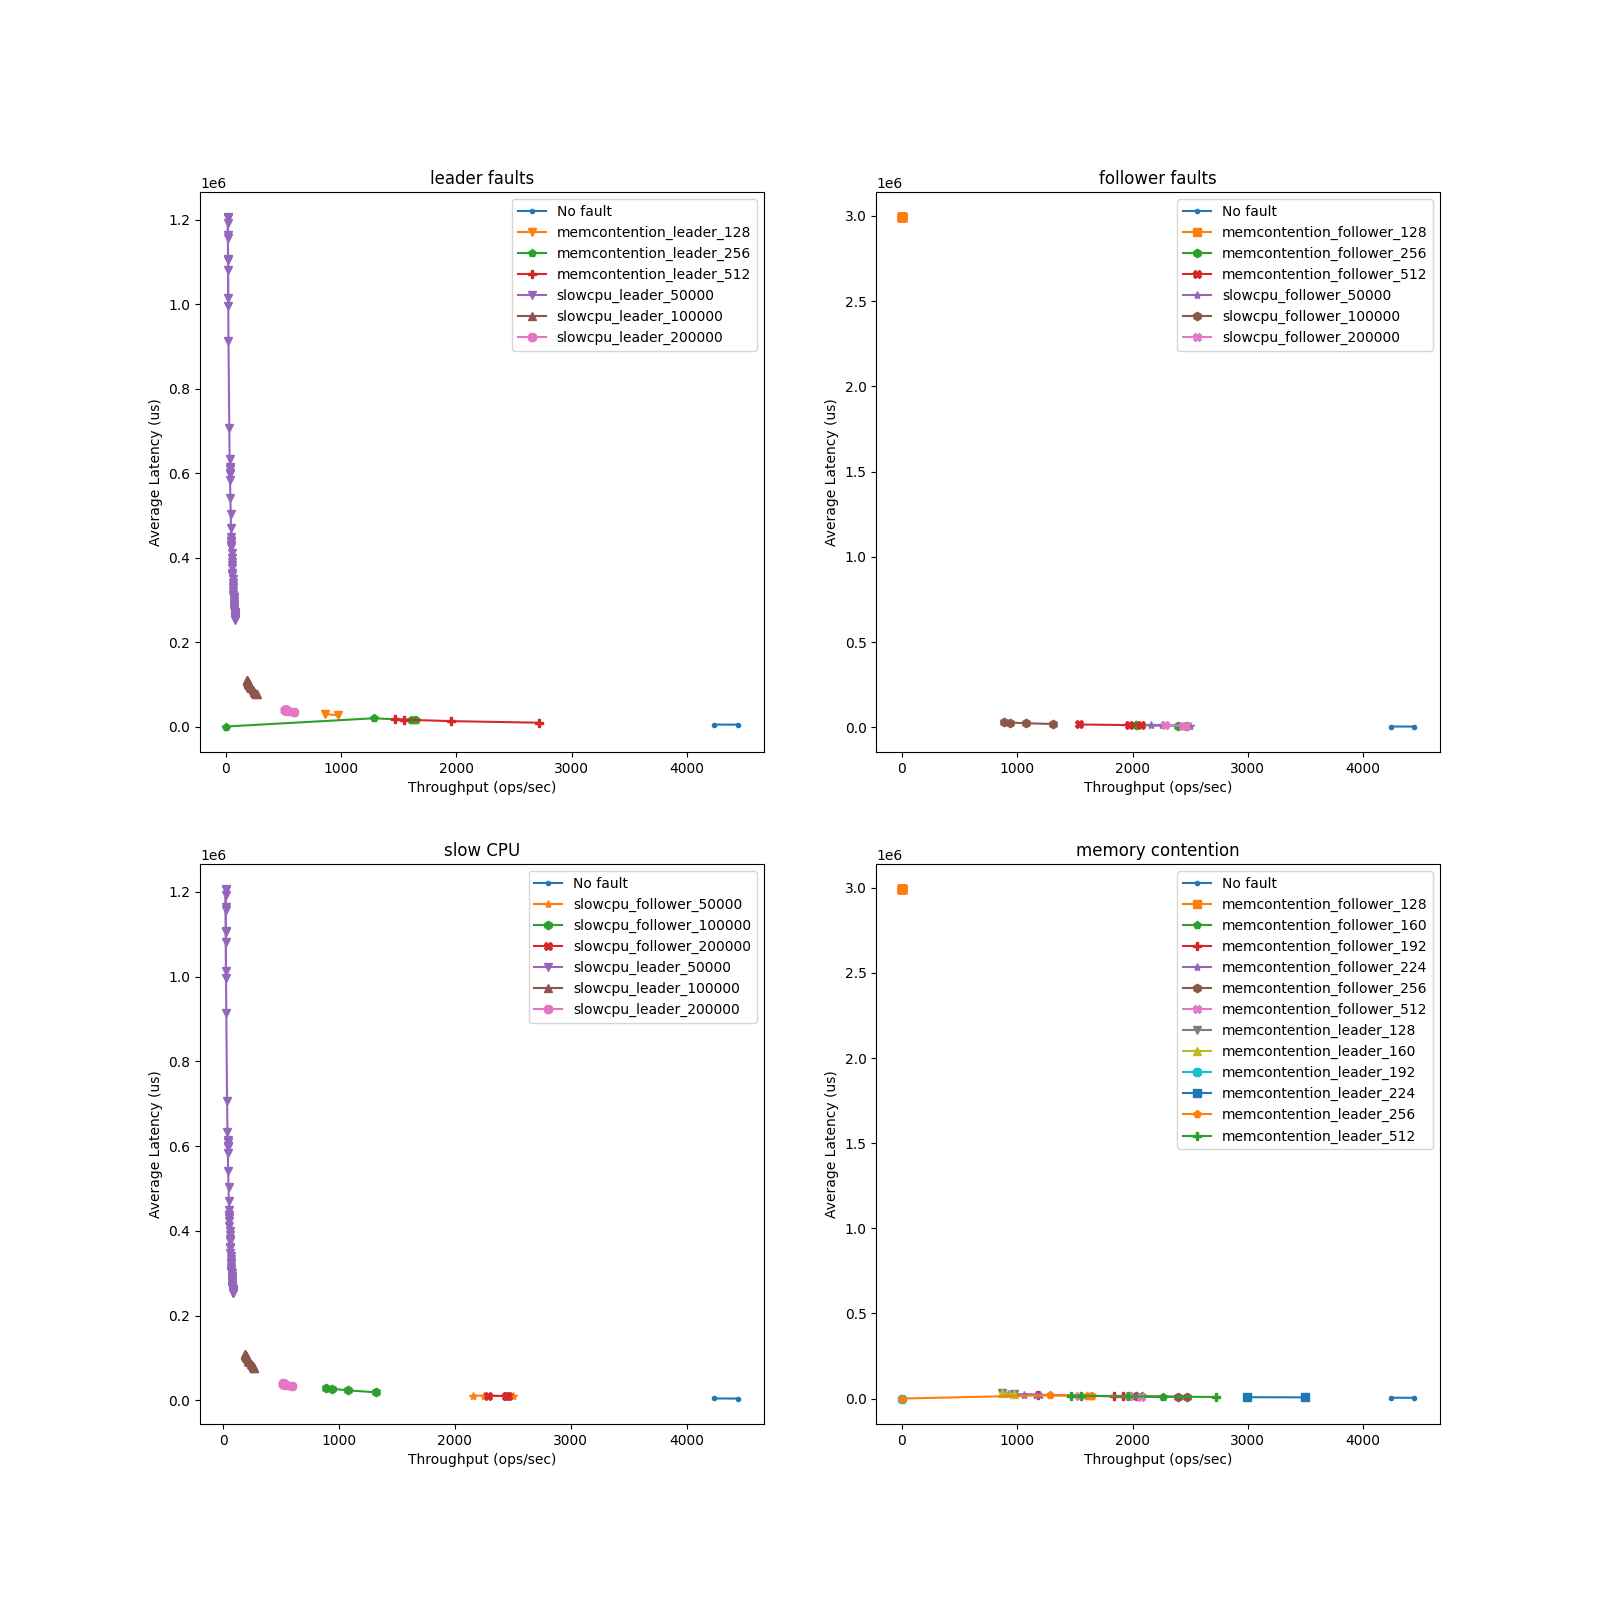
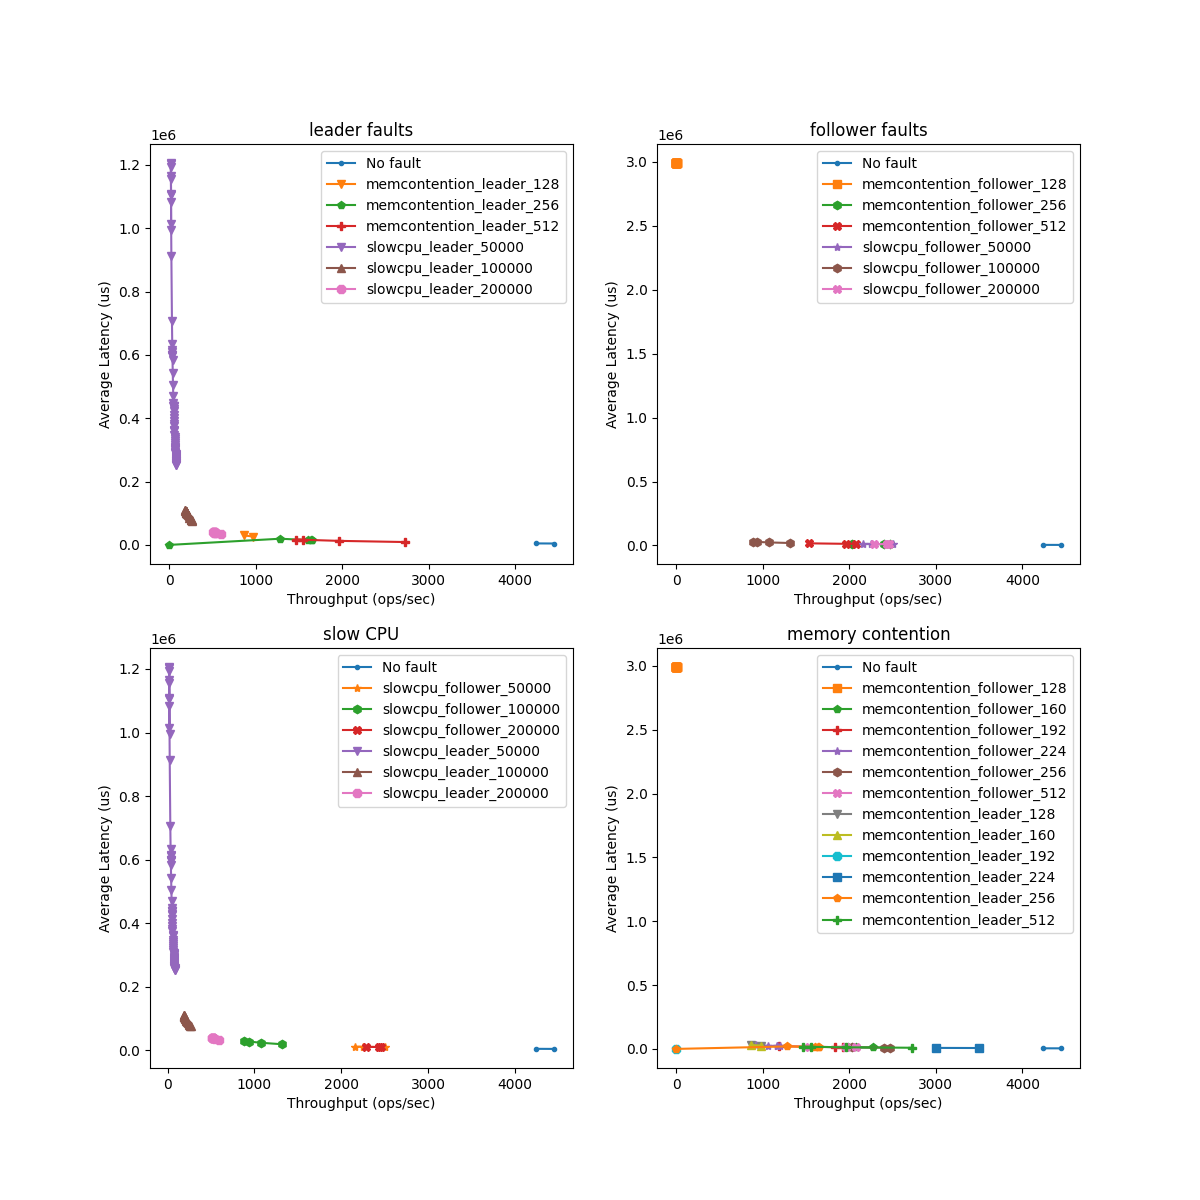
update report

diff --git a/graph.py b/graph.py
@@ -43,7 +43,7 @@ def plot_baseline():
     for x, y, thread in zip(xs, ys, threads):
         plt.annotate(thread, xy=(x, y))
 
-    plt.xlabel("Throughput (ops/sec)")
+    plt.xlabel("Throughput (ops/sec)\n Figure 1")
     plt.ylabel("Average Latency (us)")
     plt.title("Baseline performance for 1-32 threads (100K operations)")
     plt.savefig("assets/baseline.png")
@@ -52,7 +52,7 @@ def plot_baseline():
 initial_fault_plot = ["128", "256", "512", "50000", "100000", "200000"]
 
 def plot_fault():
-    plt.rcParams["figure.figsize"] = (16, 16)
+    plt.rcParams["figure.figsize"] = (12, 12)
     fig, axs = plt.subplots(2, 2)
     
     '''

diff --git a/report.md b/report.md
@@ -1,7 +1,5 @@
 <h3 align="center"> Assignment #2: Testing Reliability of Quorum Systems</h1>
 <center>Shuyang Ji (sji15)</center>
-
-
 #### 1. Select a Quorum System
 
 **Q1: What is your quorum system of choice?**
@@ -13,11 +11,9 @@
 #### **2. Run The Quorum System and Measure The Baseline Performance**
 
 **Q2: Please describe your configuration.**
-<span style="color: green">The experiments are run on a machine with 4 cores and 8 GB of memory.</span>
+<span style="color: green">The experiments are run on a Ubuntu VM within MacOS with 8 cores CPU (M1 ARM) and 8 GB of memory.</span>
 
 <span style="color: green">I use go-ycsb (the Golang port of YCSB) as the client to measure performance.</span>
-
-
 
 **Q3: What is your client workload?**
 
@@ -25,11 +21,9 @@
 
 <span style="color: green">Based on the experiment results of 1-29 threads (see Q4), 26 hits the max throughput.</span> 
 
-<span style="color: green">We conclude the bottleneck is the CPU as it exceeded the 100% CPU utilization.</span> 
+<span style="color: green">I conclude the bottleneck is the CPU as it exceeded the 100% CPU utilization.</span> 
 
-
-
-**Q4: What is your baseline performance? Plot the throughput-latency figure (how does such a paper look like? the x-axis is the throughput and the y-axis is the latency, see Figure 7 in** [**this paper**](https://www.usenix.org/system/files/osdi20-ngo.pdf)).**
+**Q4: What is your baseline performance? Plot the throughput-latency figure (how does such a paper look like? the x-axis is the throughput and the y-axis is the latency, see Figure 7 in** [**this paper**](https://www.usenix.org/system/files/osdi20-ngo.pdf)).
 
 ![](assets/baseline.png)
 
@@ -49,11 +43,11 @@
 
 <span style="color: green">Initially, I limited a node to use 128/256/512 MB memory.</span>
 
-
+![](assets/fault.png)
 
 **Q6: Please plot the performance with faults on the** **leader** **node and compare it with the baseline performance.**
 
-![](assets/graph.py)
+
 
 Killing the leader node will only slightly affect the operations. This is consistent with Raft and TiKV's fault tolerance design.
 
@@ -67,20 +61,13 @@ When I choose the quota 50000,
 
 **Q8: Please plot the performance with faults on the** **follower** **node and compare it with the baseline performance.**
 
-![](assets/follower.png)
-
 
 
 **Q9: Please explain the above results. Is it expected? Why or why not?**
 
 Killing the follower node will only slightly affect the operations. This is consistent with Raft and TiKV's fault tolerance design.
 
-
 **Q10: For the slow CPU and memory contention, could you vary the level of slowness/contention and report the results?**
-
-![](assets/cpu.png)
-
-![](assets/memory.png)
 
 I observe that when a follower is limited by a memory contention of 128MB, the node will not be able to operate normally (causing `mark store's regions need be refill` exception) and the throughoutput will decrease. I picked 160, 192 and 224 MB as memory quotas for further testing.
 

diff --git a/README.md b/README.md
@@ -23,4 +23,4 @@
 
 -->
 ## Result
-See [Report](Report.md).
+See [Report](report.md).
